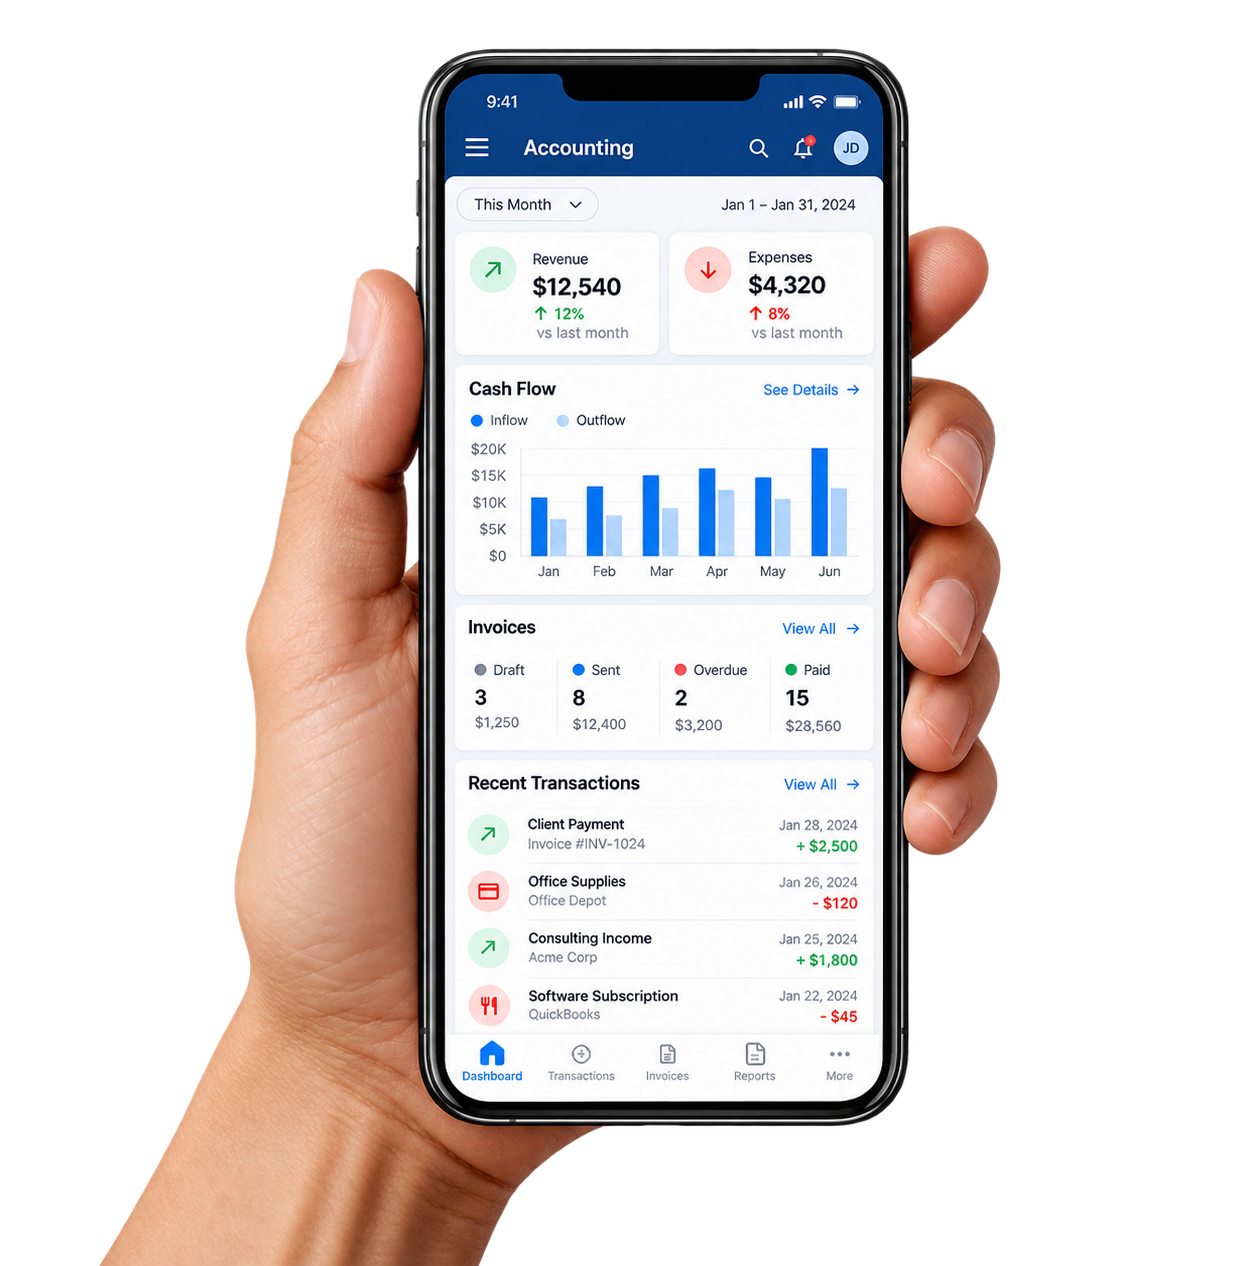
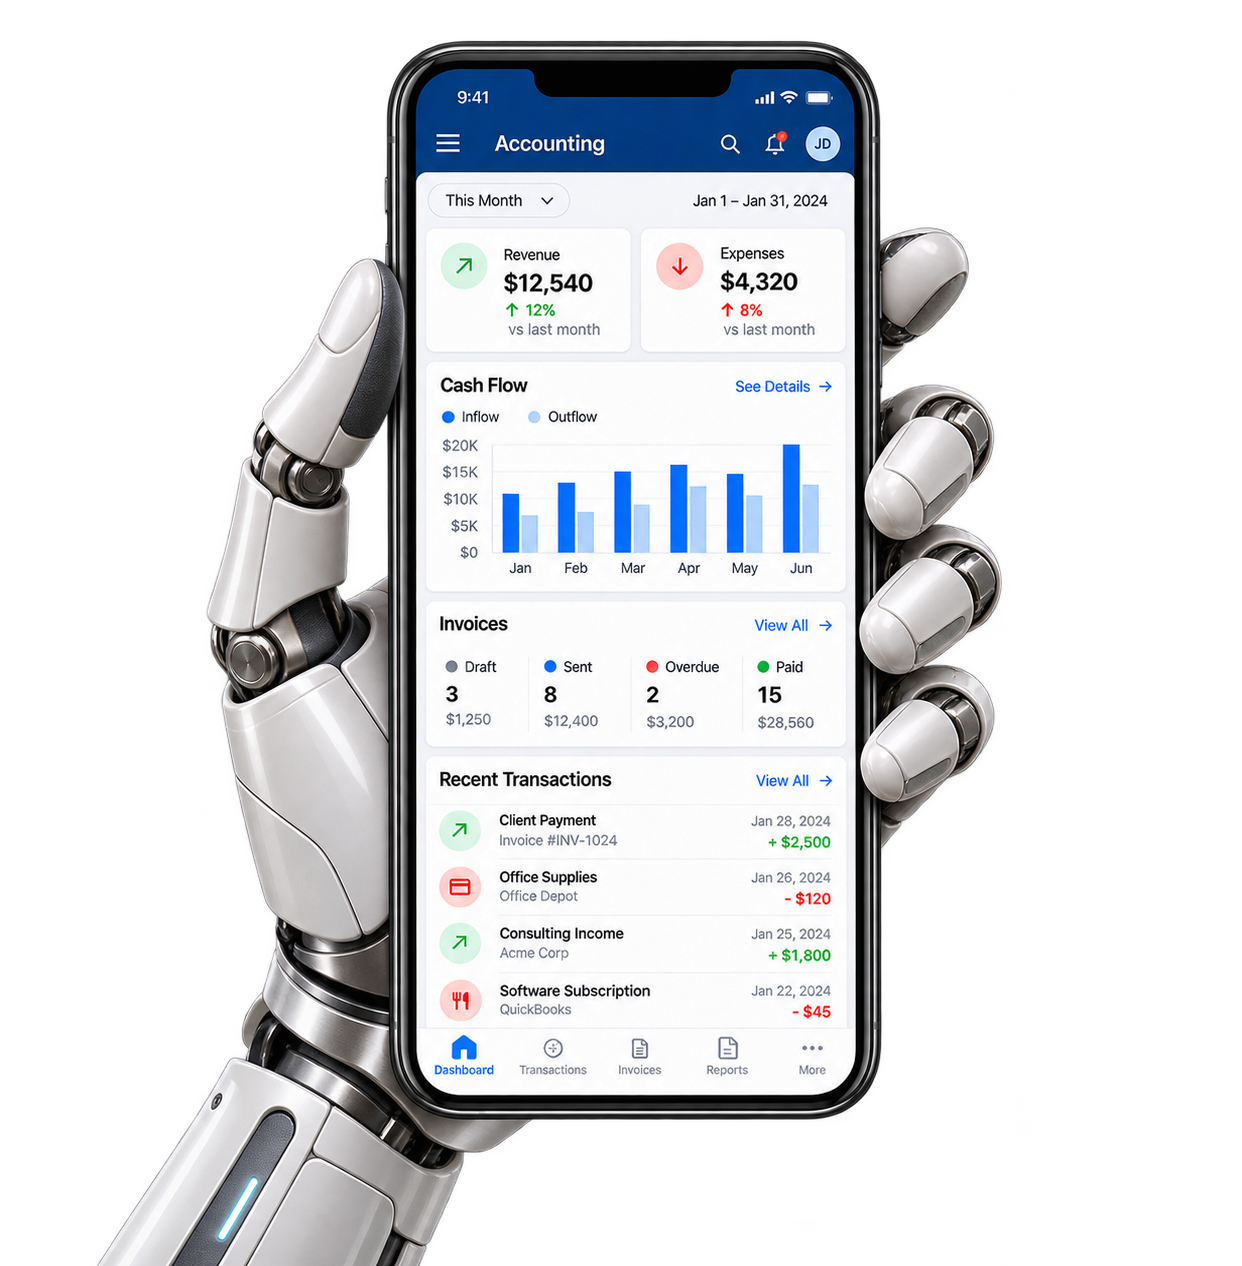
Replace mobile app photo with robotic hand image

Changed region(s): [[0.0612, 0.0308, 0.8261, 1.0]]

diff --git a/index.html b/index.html
@@ -57,7 +57,7 @@
  <section class="apps-section section" id="apps">
   <div class="section-top"><span class="eyebrow">04 / CÜBIDEK, EVERYWHERE</span><span class="tiny-label">MOBILE · DESKTOP</span></div>
   <div class="app-showcase-grid">
-   <article class="app-card mobile-app-card"><div class="app-card-copy"><span class="app-kicker">MOBILE APP</span><h2>Your books move<br>with your business</h2><p>Capture receipts, approve transactions, and check cash flow wherever the day takes you.</p></div><div class="device-stage phone-stage"><img class="app-device-image" src="assets/app-phone.png" alt="Hand holding a phone with an accounting dashboard showing cash flow, invoices, and transactions" loading="lazy" decoding="async"></div><div class="app-platforms"><span>● iOS app</span><span>◆ Android app</span></div></article>
+   <article class="app-card mobile-app-card"><div class="app-card-copy"><span class="app-kicker">MOBILE APP</span><h2>Your books move<br>with your business</h2><p>Capture receipts, approve transactions, and check cash flow wherever the day takes you.</p></div><div class="device-stage phone-stage"><img class="app-device-image" src="assets/app-phone.png?v=robot" alt="Robotic hand holding a phone with an accounting dashboard showing cash flow, invoices, and transactions" loading="lazy" decoding="async"></div><div class="app-platforms"><span>● iOS app</span><span>◆ Android app</span></div></article>
    <article class="app-card desktop-app-card"><div class="app-card-copy"><span class="app-kicker">DESKTOP APP</span><h2>A focused workspace<br>for deeper work</h2><p>Run close, reporting, and planning in a secure workspace designed for sustained focus.</p></div><div class="device-stage desktop-stage"><img class="app-device-image" src="assets/app-desktop.png" alt="Desktop accounting dashboard with revenue, expenses, cash flow, invoices, and recent transactions" loading="lazy" decoding="async"></div><div class="app-platforms desktop-platforms"><span>▦ Windows</span><span>⌘ macOS</span></div></article>
   </div>
  </section>
